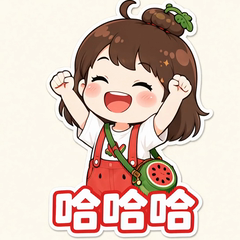
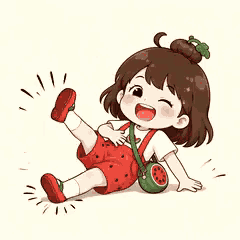
feat: daily pack 666 哈哈哈哈 美滋滋 笑死 逆天啊 尊嘟假嘟

diff --git a/src/lib/packs.ts b/src/lib/packs.ts
@@ -191,16 +191,20 @@ export const PACKS: Pack[] = [
     name: "日常",
     nameEn: "Daily",
     outfit: "watermelon",
-    tagline: "笑死 难绷憋笑 666",
+    tagline: "笑死 哈哈哈哈 尊嘟假嘟",
     accent: "blush",
     updatedAt: "2026-09-14",
     stickers: [
-      { id: "lol", name: "笑死", motion: "laugh die" },
+      { id: "lol", name: "笑死", motion: "laugh collapse" },
       { id: "nanbeng", name: "难绷憋笑", motion: "cover mouth shake" },
+      { id: "haha", name: "哈哈哈哈", motion: "roll on floor laugh" },
+      { id: "meizi", name: "美滋滋", motion: "sit rub hands smug" },
+      { id: "six", name: "666", motion: "sit thumbs-up 666" },
+      { id: "nitian", name: "逆天啊", motion: "fall sit shocked" },
+      { id: "zundu", name: "尊嘟假嘟", motion: "lean tilt cute confuse" },
       { id: "drama", name: "刷短剧去了", motion: "sneak phone" },
       { id: "bye", name: "拜拜", motion: "wave bye" },
       { id: "juice", name: "美汁汁", motion: "satisfied" },
-      { id: "haha", name: "哈哈哈", motion: "burst laugh" },
       { id: "hehe", name: "嘿嘿", motion: "sly grin" },
       { id: "speechless", name: "无语", motion: "deadpan" },
       { id: "wild", name: "离谱", motion: "shock" },
@@ -210,7 +214,6 @@ export const PACKS: Pack[] = [
       { id: "fold", name: "服了", motion: "palm forehead" },
       { id: "insane", name: "绝了", motion: "mind blown" },
       { id: "real", name: "真的假的", motion: "suspicious" },
-      { id: "six", name: "666", motion: "finger guns" },
       { id: "love", name: "爱了", motion: "heart hands" },
     ],
   },
@@ -247,11 +250,11 @@ export const PACKS: Pack[] = [
 ];
 
 export function stickerGif(packId: string, stickerId: string) {
-  return `/stickers/${packId}/${stickerId}.gif?v=78`;
+  return `/stickers/${packId}/${stickerId}.gif?v=79`;
 }
 
 export function stickerPng(packId: string, stickerId: string) {
-  return `/stickers/${packId}/${stickerId}.png?v=78`;
+  return `/stickers/${packId}/${stickerId}.png?v=79`;
 }
 
 export function getPack(id: string) {

diff --git a/src/routes/pack.$id.tsx b/src/routes/pack.$id.tsx
@@ -81,7 +81,7 @@ function PackPage() {
           </button>
           {inProgress ? null : (
             <a
-              href={`/downloads/${pack.id}.zip?v=78`}
+              href={`/downloads/${pack.id}.zip?v=79`}
               download={`${pack.name}.zip`}
               className="inline-flex h-11 items-center justify-center rounded-md border border-line px-4 text-sm font-semibold text-ink"
             >
